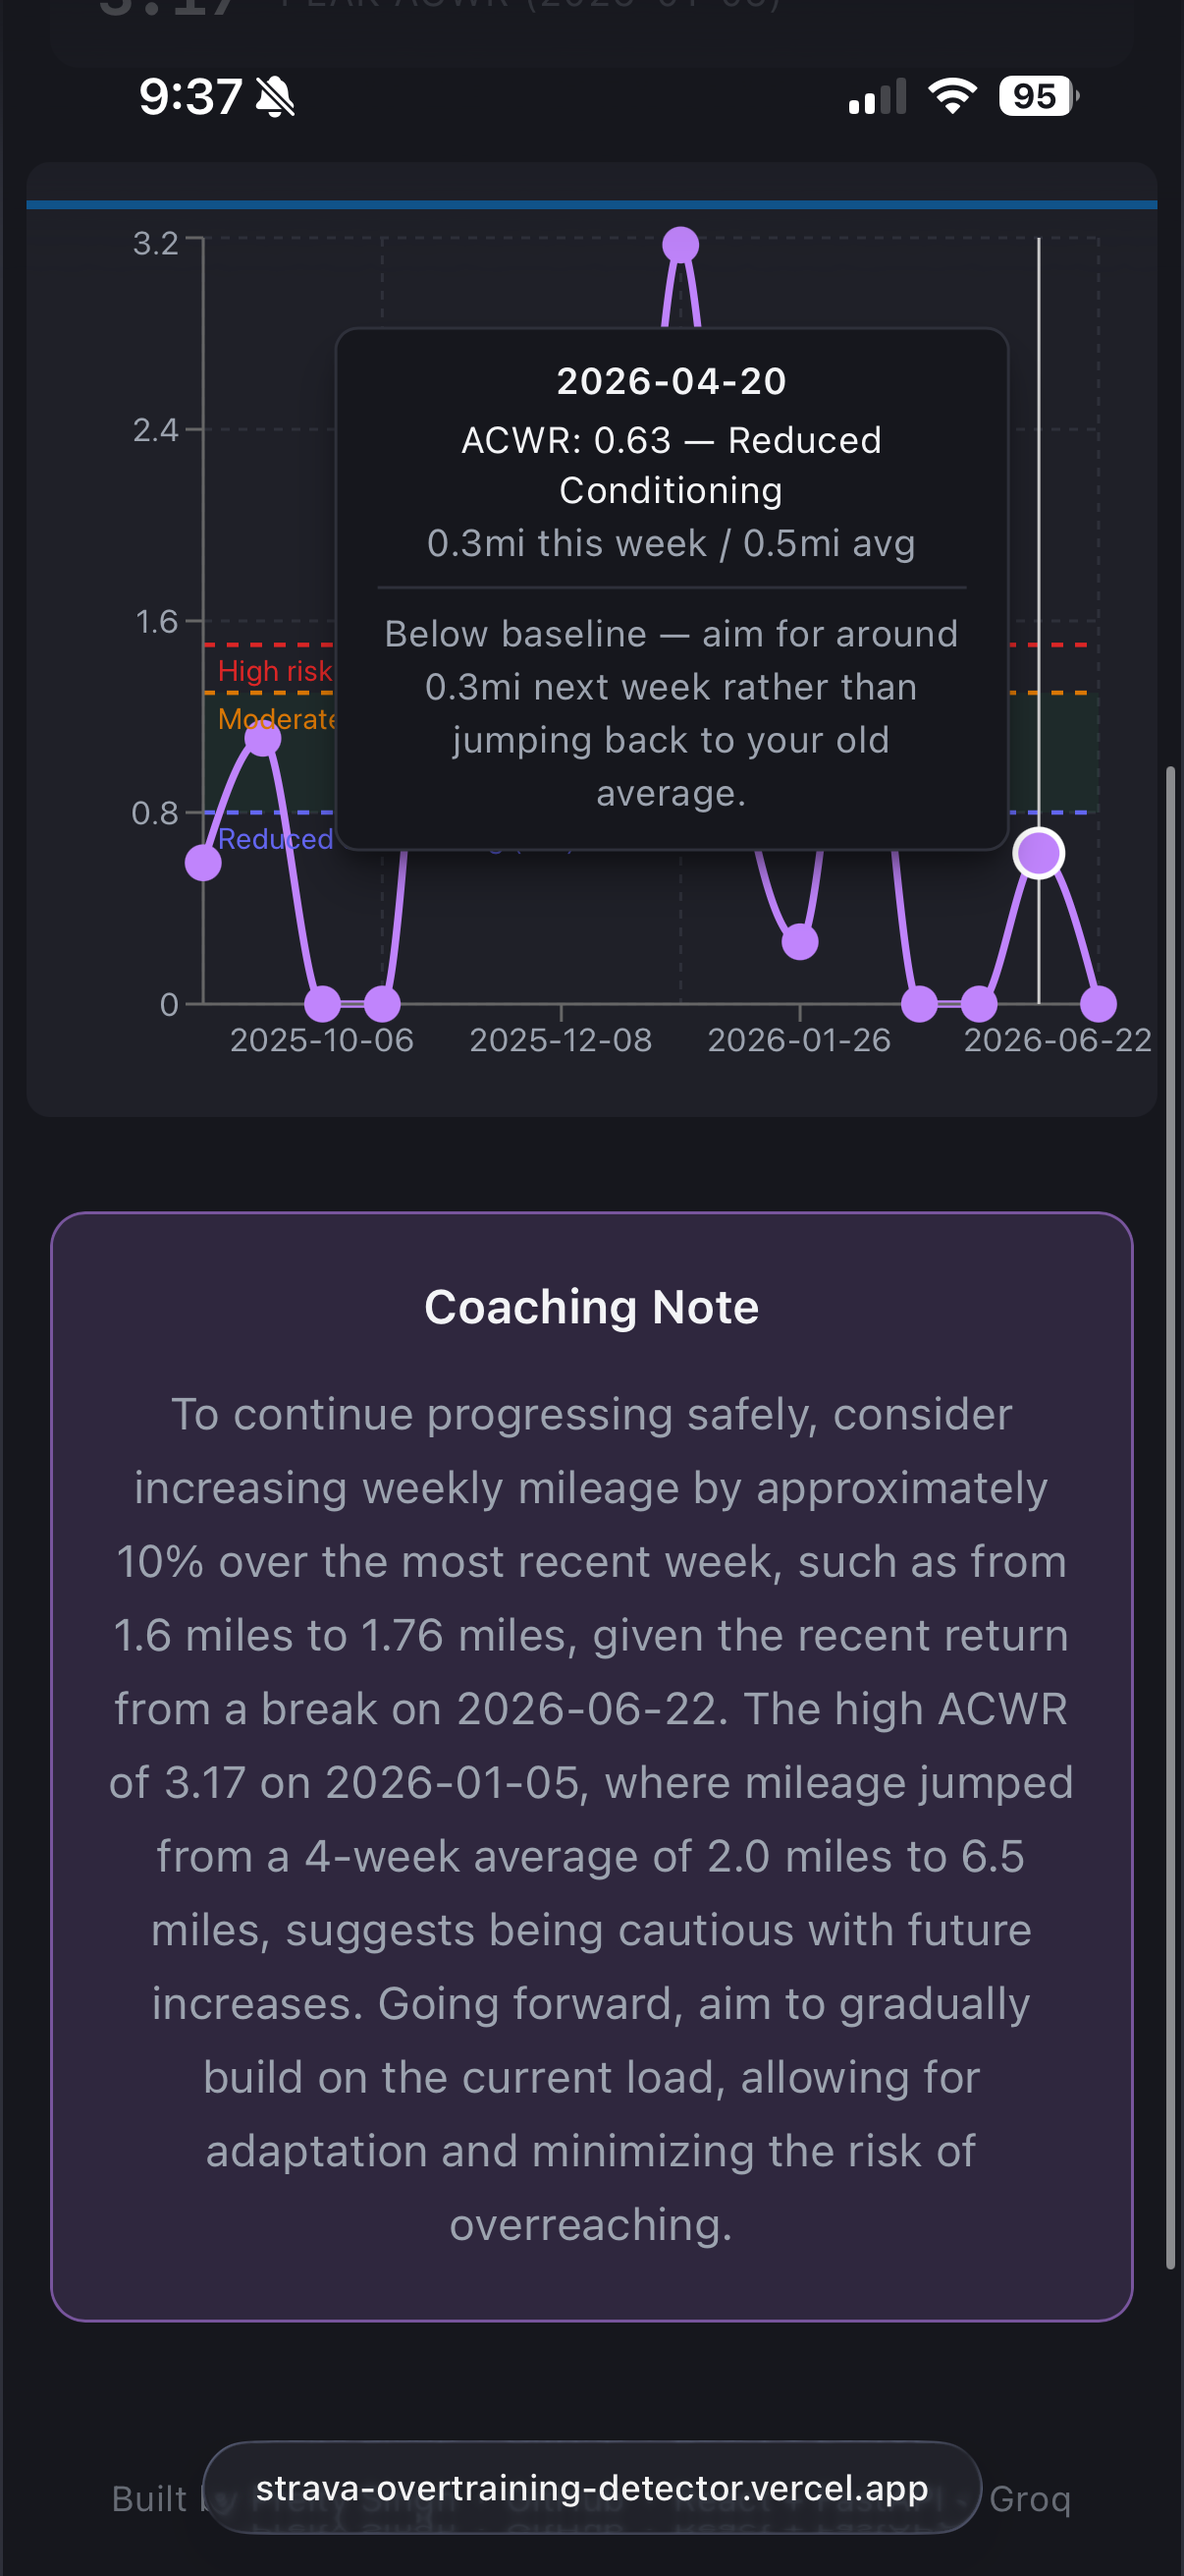
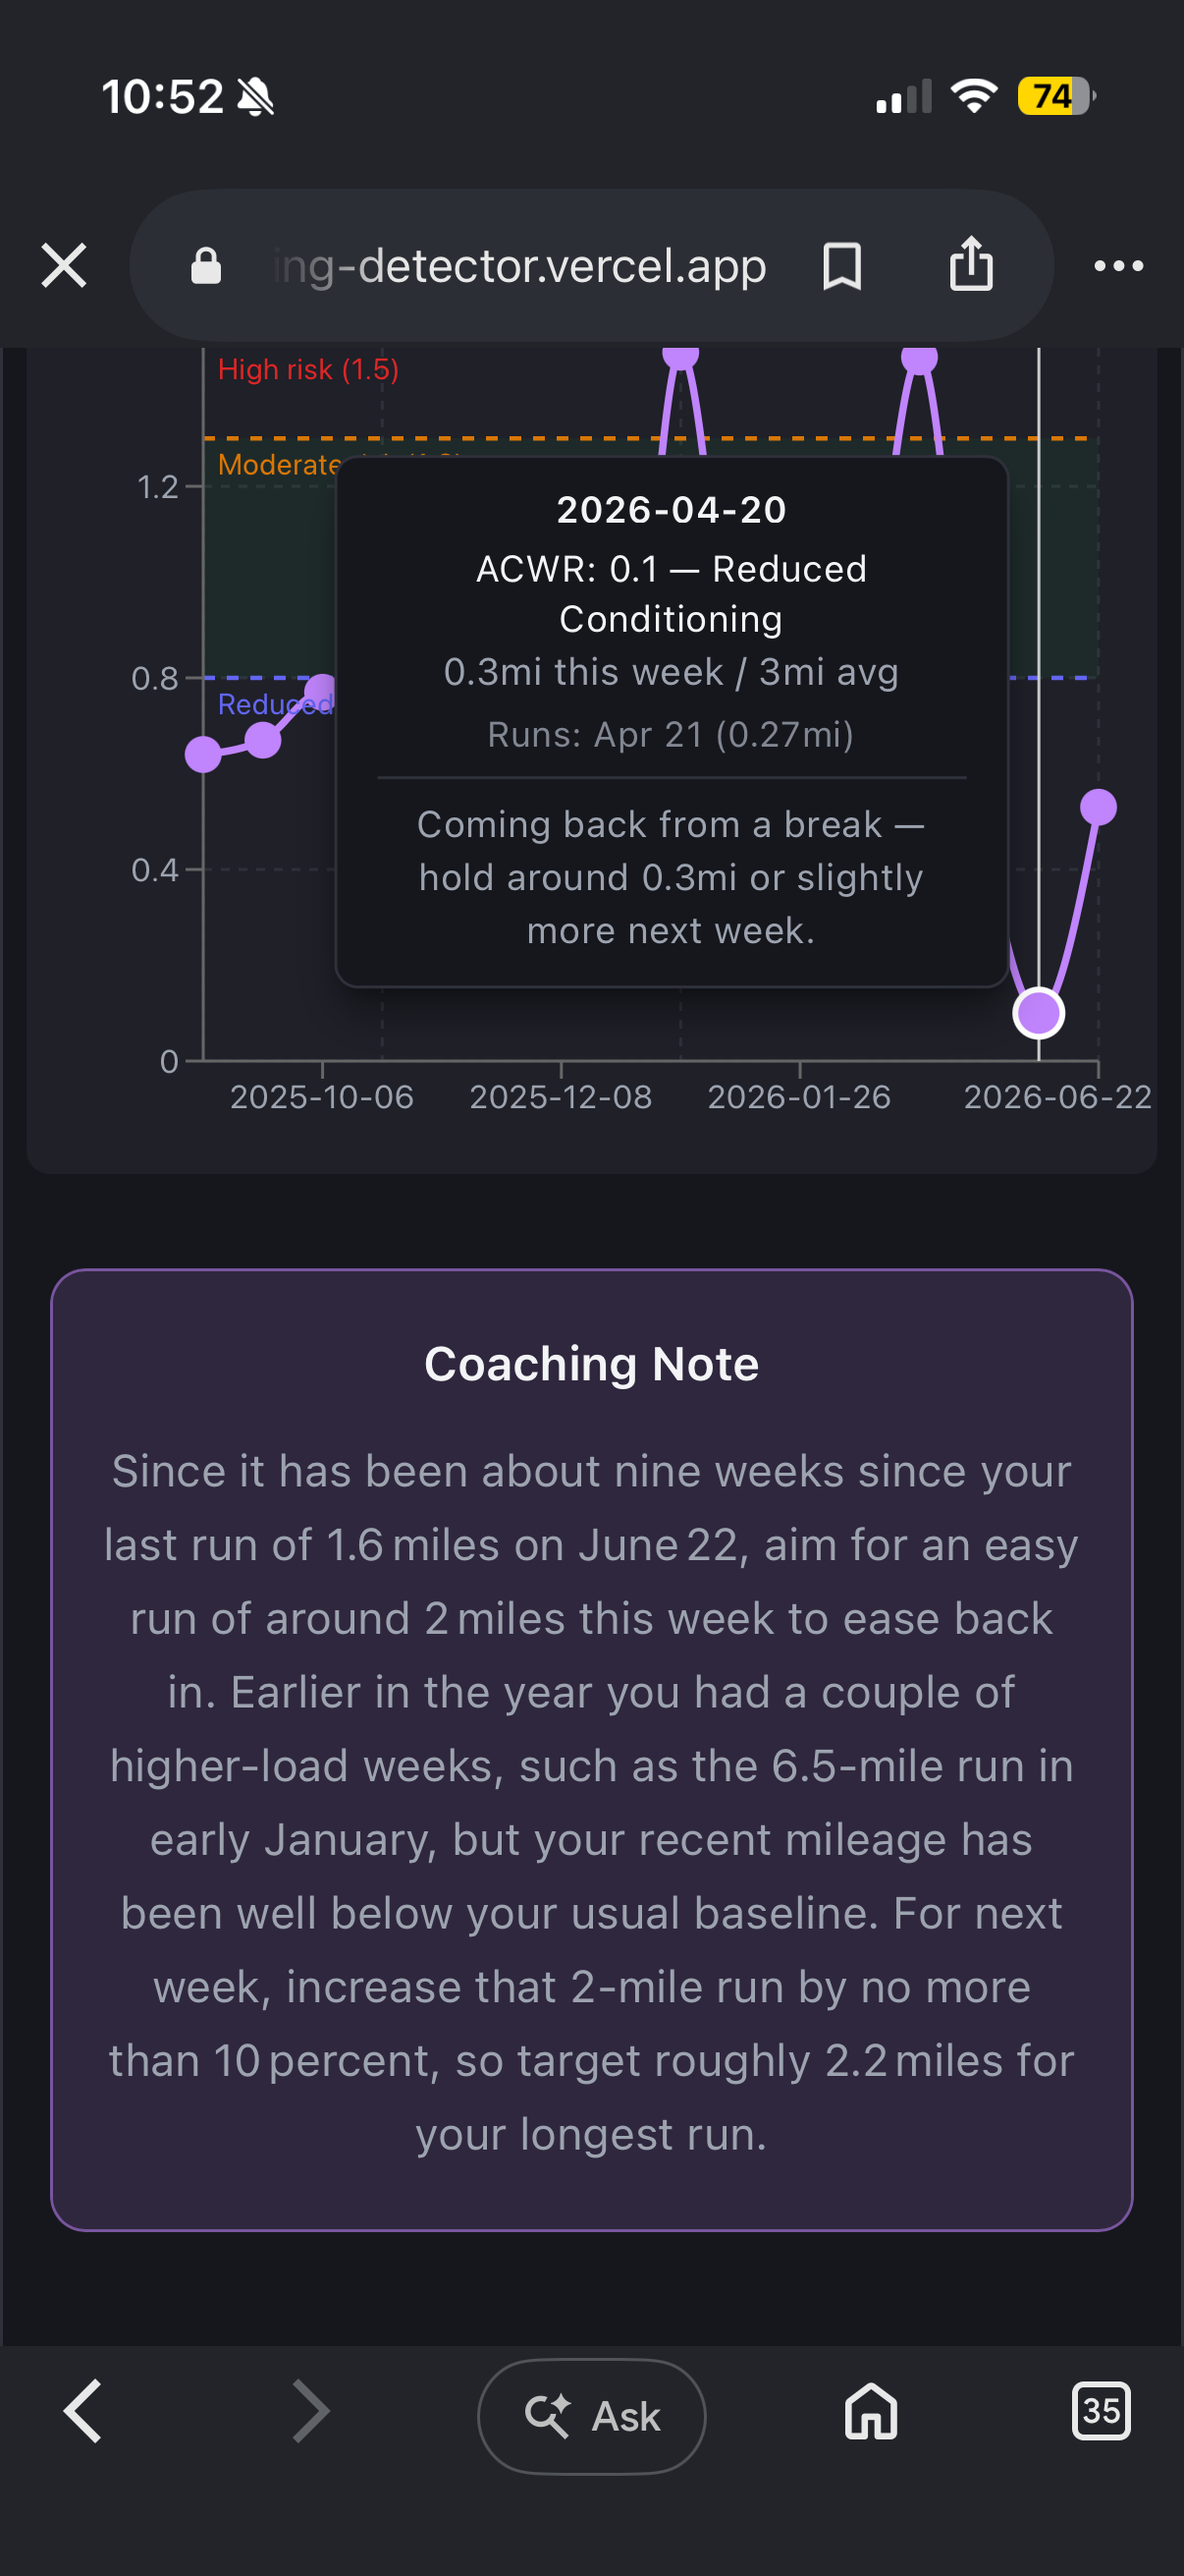
Update README: new screenshots, add EWMA explanation with chronic floor

diff --git a/README.md b/README.md
@@ -10,7 +10,7 @@ Runners increase mileage too quickly all the time and often without realizing it
 
 ## The Approach: ACWR
 
-This tool is built around **Acute:Chronic Workload Ratio (ACWR)**, a sports-science metric that compares your current week's mileage to an exponentially weighted chronic average. Recent weeks count more, old weeks fade gradually (no cliff effect), and a chronic floor of 3mi prevents ratio blow-up for low-volume runners. The ratio matters more than absolute mileage — a spike is relative to what your body has recently been doing.
+This tool is built around **Acute:Chronic Workload Ratio (ACWR)**, a sports-science metric that compares your current week's mileage to a weighted average of your recent history. Recent weeks count more, old weeks fade gradually, and a chronic floor prevents the math from overreacting to low mileage. The ratio matters more than absolute mileage — a spike is relative to what your body has recently been doing.
 
 ![ACWR info toggle with definition and Learn more link](images/ACWR.png)
 
@@ -31,15 +31,17 @@ Hover over any data point to see the ACWR value, risk band, mileage context, and
 
 | Band | Example |
 |------|---------|
-| High Risk | ![High Risk tooltip](images/HighRisk.png) |
-| Optimal | ![Optimal tooltip](images/Optimal.png) |
+| Moderate Risk | ![Moderate Risk tooltip](images/ModerateRisk.png) |
 | Reduced Conditioning | ![Reduced Conditioning tooltip](images/ReducedConditioning.png) |
+| Reduced Conditioning (Floor) | ![Chronic floor in action](images/ReducedConditioningFloor.png) |
 
 ## Full Dashboard
 
 The dashboard shows your current risk status, summary stats, an interactive ACWR timeline with labeled thresholds and a shaded Optimal zone, and an LLM-generated coaching note with forward-looking guidance.
 
-![Full dashboard view](images/UserState.png)
+![Full dashboard view](images/UserPage.png)
+
+![Coaching note](images/CoachingNote.png)
 
 ## How It Works
 
@@ -48,7 +50,7 @@ User clicks "Connect with Strava"
   → OAuth login via Strava
   → Backend fetches activity history
   → Python computes weekly mileage, fills gaps, calculates ACWR per week
-  → Groq (Llama 3.3 70B) generates a coaching note from the pre-computed data
+  → Groq LLM generates a coaching note from the pre-computed data
   → React dashboard displays risk summary, timeline chart, and note
 ```
 
@@ -61,7 +63,7 @@ Fully responsive and dark-mode compatible out of the box:
 <p align="center">
   <img src="images/TitlePagePhone.PNG" width="250" alt="Landing page on iPhone (dark mode)" />
   &nbsp;&nbsp;
-  <img src="images/UserStatePhone.PNG" width="250" alt="Dashboard on iPhone (dark mode)" />
+  <img src="images/UserPagePhone.PNG" width="250" alt="Dashboard on iPhone (dark mode)" />
   &nbsp;&nbsp;
   <img src="images/CoachingNotePhone.PNG" width="250" alt="Coaching note on iPhone (dark mode)" />
 </p>
@@ -70,7 +72,7 @@ Fully responsive and dark-mode compatible out of the box:
 
 - **Backend:** FastAPI (Python) — OAuth, pipeline orchestration
 - **Metrics:** Custom Python — weekly aggregation, gap-filling, EWMA-based ACWR with chronic floor
-- **LLM:** Groq (Llama 3.3 70B) — coaching note generation from pre-computed metrics
+- **LLM:** Groq — coaching note generation from pre-computed metrics
 - **Frontend:** React (Vite) + Recharts
 - **Deployment:** Vercel (frontend) + Railway (backend)
 
@@ -104,6 +106,22 @@ Strava's Authorization Callback Domain points to the Railway domain.
 ## A Note on Strava API Access
 
 As of June 2026, Strava requires an active paid subscription for developer API access. This project was built and tested with a live subscription. The screenshots and recorded demo reflect the fully working app.
+
+## Why EWMA Over Rolling Average
+
+The standard way to calculate ACWR uses a simple rolling average: add up the last 4 weeks and divide by 4. The problem is that week 5 data drops from full influence to zero overnight — a "cliff" that doesn't reflect how fitness actually works. Your body doesn't forget a 15-mile week the instant it's 29 days old.
+
+EWMA (Exponentially Weighted Moving Average) fixes this by decaying old weeks gradually:
+
+```
+chronic = (this_week × 0.4) + (previous_chronic × 0.6)
+```
+
+Each week, 40% of the weight goes to the new data and 60% carries forward from before. A big week from a month ago still contributes about 13% of its original influence (0.6⁴ ≈ 0.13) rather than disappearing entirely. This produces smoother, more realistic baselines — especially for runners with inconsistent schedules.
+
+### Chronic Floor (3.0 miles)
+
+Without a floor, the math breaks for low-volume runners. If someone averages 1 mile/week and then runs 3 miles, a pure ratio gives ACWR = 3.0 (extreme high risk) — but 3 miles isn't dangerous for anyone regardless of history. The chronic floor caps the denominator at 3.0 miles minimum, so the ratio stays grounded in reality when absolute mileage is too low to cause injury.
 
 ## Why ACWR Over TSB
 
